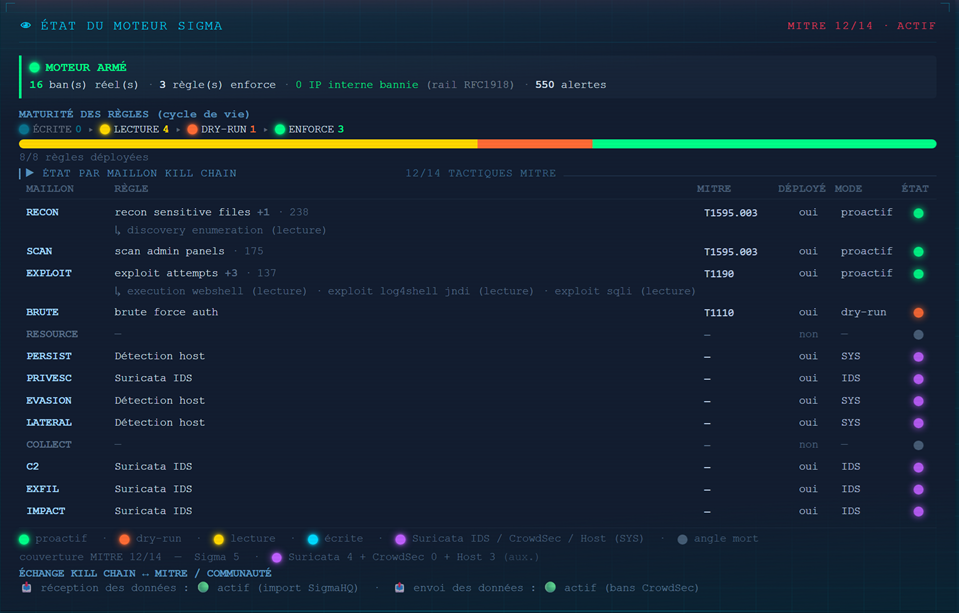
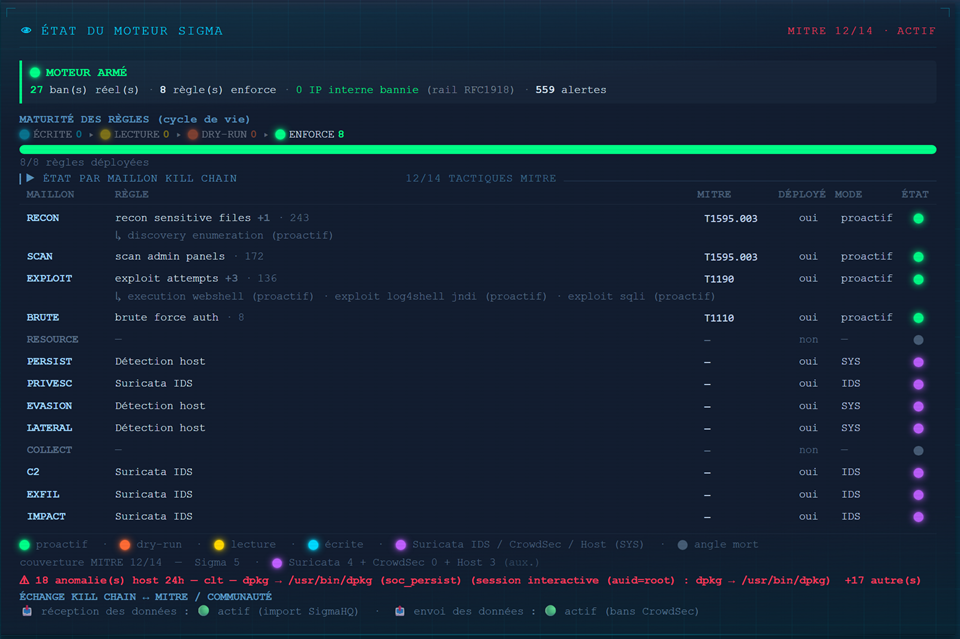
feat(sigma): moteur à pleine maturité — 8/8 règles enforce
- BRUTE promu enforce (0 faux positif dry-run, seuil ajusté sites statiques)
- 4 règles community SigmaHQ promues enforce : log4shell, sqli, webshell, discovery
- Cycle de vie complété : DRY-RUN 0 → ENFORCE 8
- Screenshot sigma-moteur-3.png mis à jour (état réel 2026-06-06)
- pytest 1487 tests · 8/8 enforce · MITRE 12/14

diff --git a/10-DETECTIONS.md b/10-DETECTIONS.md
@@ -41,7 +41,7 @@ review : 0 faux positif prouvé**. Réversible à tout instant (ban court, kill-
 
 <img src="assets/sigma-moteur-3.png" alt="Tuile état du moteur Sigma — verdict, maturité par règle, couverture MITRE par maillon" width="840" />
 
-<sub><strong>Le moteur Sigma vu du dashboard SOC</strong> : <strong>verdict</strong> (moteur armé · bans réels · 0 IP interne bannie) · <strong>maturité</strong> de chaque règle (alert-only → dry-run → enforce) · <strong>couverture MITRE 12/14</strong> par maillon Kill Chain.</sub>
+<sub><strong>Le moteur Sigma vu du dashboard SOC</strong> : <strong>verdict</strong> (moteur armé · bans réels · 0 IP interne bannie) · <strong>maturité</strong> — <strong>8/8 règles enforce</strong> (cycle de vie complété) · <strong>couverture MITRE 12/14</strong> par maillon Kill Chain.</sub>
 
 </div>
 
@@ -54,14 +54,14 @@ review : 0 faux positif prouvé**. Réversible à tout instant (ban court, kill-
 | `recon-sensitive-files` | RECON | T1595.003 | 🟢 enforce | scan de `/.env`, `/.git`, `/.aws/credentials`, `/.ssh/id_rsa`… (vol de secrets exposés) |
 | `scan-admin-panels` | SCAN | T1595.003 | 🟢 enforce | énumération de panels (`/wp-admin`, `/phpmyadmin`, `/actuator`, `/manager/html`…) |
 | `exploit-attempts` | EXPLOIT | T1190 | 🟢 enforce | traversée (`/etc/passwd`), endpoints RCE (`/cgi-bin/`, `/boaform/`), vol de config |
-| `exploit-log4shell-jndi` | EXPLOIT | T1190 | 🟡 alert-only | **Log4Shell** (CVE-2021-44228) : `${jndi:…}` + variantes obfusquées + URL-encodé |
-| `exploit-sqli` *(SigmaHQ)* | EXPLOIT | T1190 | 🟡 alert-only | **injection SQL** : union-based · error-based · énumération de schéma · time-based · bypass d'authentification — signatures haut-signal, quasi 0 faux positif (liste complète privée) |
-| `brute-force-auth` | BRUTE | T1110 | 🟠 dry-run | acharnement sur les endpoints d'auth — **agrégation par IP au-dessus d'un seuil** (la répétition, pas l'accès) |
-| `discovery-enumeration` *(SigmaHQ)* | RECON | T1083 | 🟡 alert-only | énumération de fichiers/dépôts/utilisateurs exposés (`.git`, `.env`, `server-status`, users WP) |
-| `execution-webshell` *(SigmaHQ)* | EXPLOIT | T1059 | 🟡 alert-only | exécution via webshell (`cmd=`, `shell_exec`, signatures connues) |
+| `exploit-log4shell-jndi` | EXPLOIT | T1190 | 🟢 enforce | **Log4Shell** (CVE-2021-44228) : `${jndi:…}` + variantes obfusquées + URL-encodé |
+| `exploit-sqli` *(SigmaHQ)* | EXPLOIT | T1190 | 🟢 enforce | **injection SQL** : union-based · error-based · énumération de schéma · time-based · bypass d'authentification — signatures haut-signal, quasi 0 faux positif (liste complète privée) |
+| `brute-force-auth` | BRUTE | T1110 | 🟢 enforce | acharnement sur les endpoints d'auth — **agrégation par IP au-dessus d'un seuil** (la répétition, pas l'accès) |
+| `discovery-enumeration` *(SigmaHQ)* | RECON | T1083 | 🟢 enforce | énumération de fichiers/dépôts/utilisateurs exposés (`.git`, `.env`, `server-status`, users WP) |
+| `execution-webshell` *(SigmaHQ)* | EXPLOIT | T1059 | 🟢 enforce | exécution via webshell (`cmd=`, `shell_exec`, signatures connues) |
 
 > 🟢 **enforce** = ban réel · 🟠 **dry-run** = simulé (accumule la preuve) · 🟡 **alert-only** = observation.
-> BRUTE reste en dry-run tant qu'aucune attaque réelle n'a fourni de donnée à juger (data-gated).
+> **8/8 règles en enforce** — toutes les détections ont achevé leur cycle de maturité (0 faux positif prouvé avant chaque promotion). Le moteur est à pleine maturité.
 
 > 🛡️ **Défense en profondeur par maillon** : un même maillon Kill Chain est couvert par **plusieurs
 > détections**. Ex. **EXPLOIT** = honeypot `exploit-attempts` (enforce) + `Log4Shell` + `SQLi` +

diff --git a/README.md b/README.md
@@ -217,7 +217,7 @@ JARVIS (Ollama **phi4:14b**) s'intègre au SOC comme **couche d'expertise option
 | 🗺️ | **GeoIP** | Cartographie Leaflet + MaxMind · arcs d'attaque animés · top pays |
 | 🔄 | **Plug-and-play** | Archive privée 13 blocs · procédure DR éprouvée en conditions réelles · non reproductible depuis ce dépôt seul |
 | 🔥 | **DR validé en conditions réelles** | Exercice Phase A/B/C exécuté le 2026-04-28 · basculement réseau · 8 écarts corrigés · [rapport](DEPLOY/DR-EXERCISE-2026-04-28.md) |
-| 🧪 | **Qualité &amp; tests** | Suite pytest (1000+ tests) · ruff/eslint · dette de code à zéro · dette structurelle **assumée et documentée** |
+| 🧪 | **Qualité &amp; tests** | Suite pytest (1487 tests) · ruff/eslint · dette de code à zéro · dette structurelle **assumée et documentée** |
 | 🧯 | **Résilience auto** | Auto-ban CrowdSec · auto-restart services · cooldowns anti-spam · journal forensique horodaté |
 
 ---
@@ -368,7 +368,7 @@ SPA Vanilla JS — zéro dépendance NPM · 28 modules · 35 tuiles.
 | **GeoIP** | Leaflet.js + MaxMind GeoLite2 — cartographie mondiale · arcs d'attaque animés |
 | **Polling** | Cycle 60s — toutes les tuiles se rafraîchissent automatiquement · zéro rechargement de page |
 | **Thème** | Glassmorphism — tokens CSS `--fs-*` · responsive · zéro framework CSS |
-| **Qualité** | Dette de code à zéro (NDT) · suite pytest 1000+ · dette structurelle assumée · scores honnêtes |
+| **Qualité** | Dette de code à zéro (NDT) · suite pytest 1487 · dette structurelle assumée · scores honnêtes |
 
 ---
 